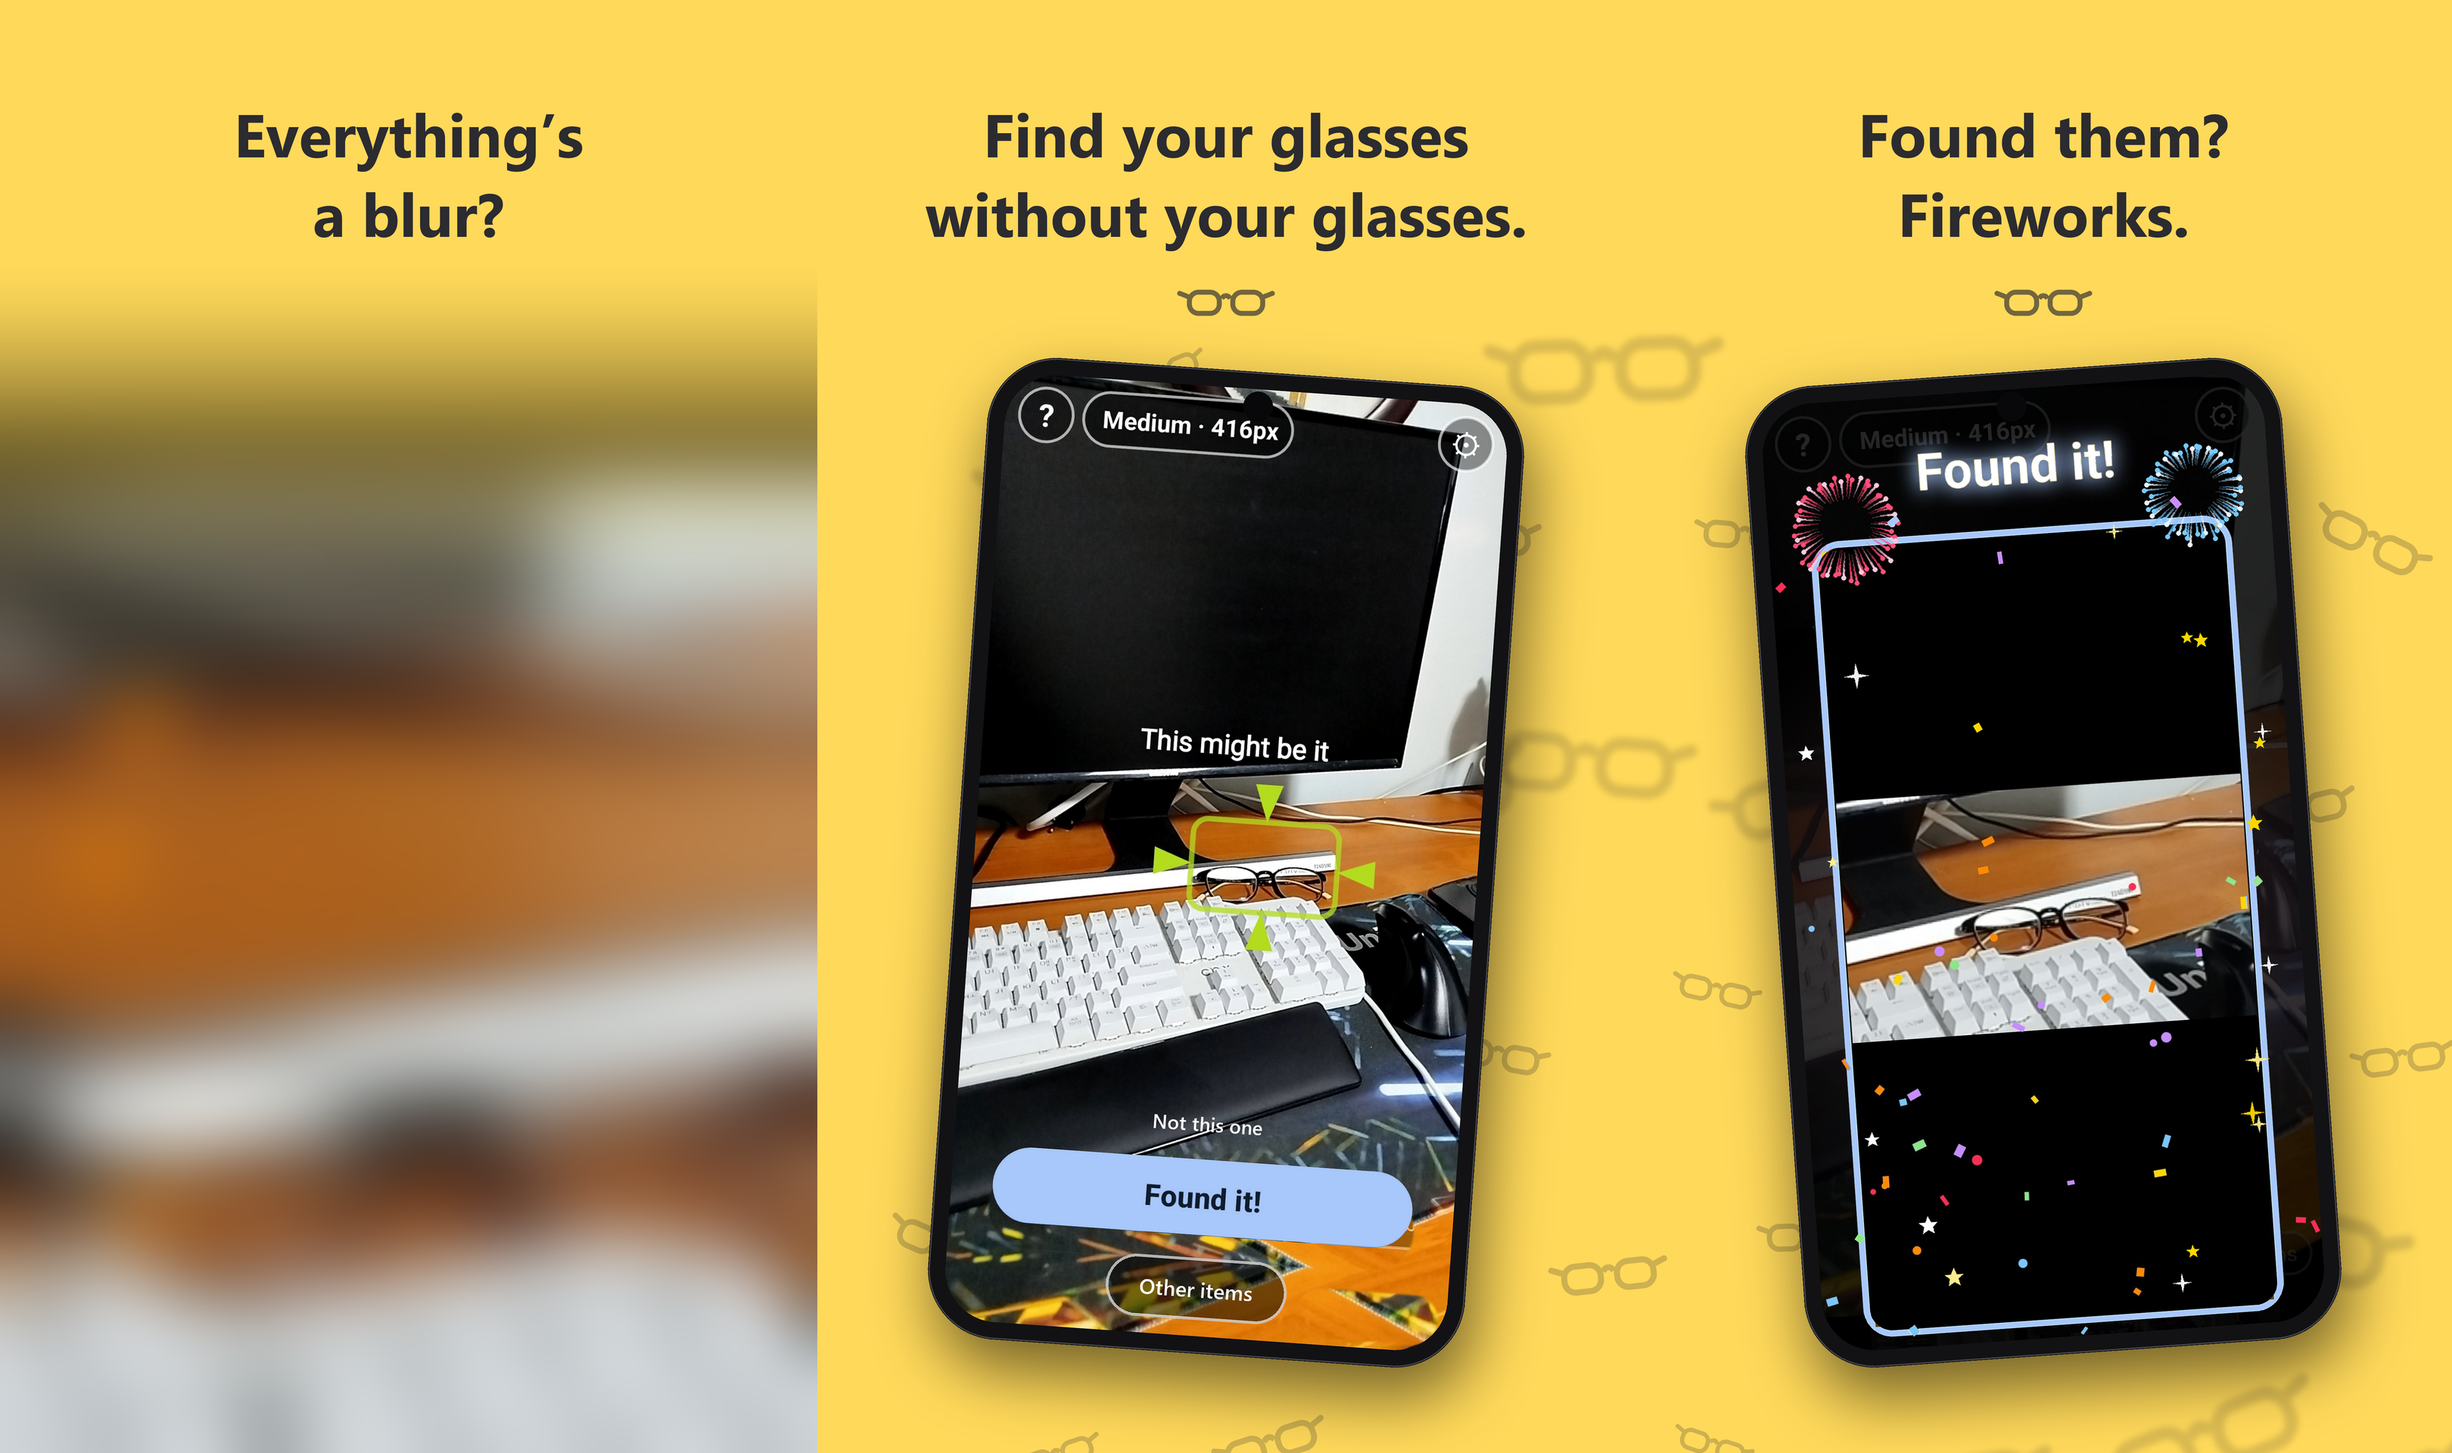
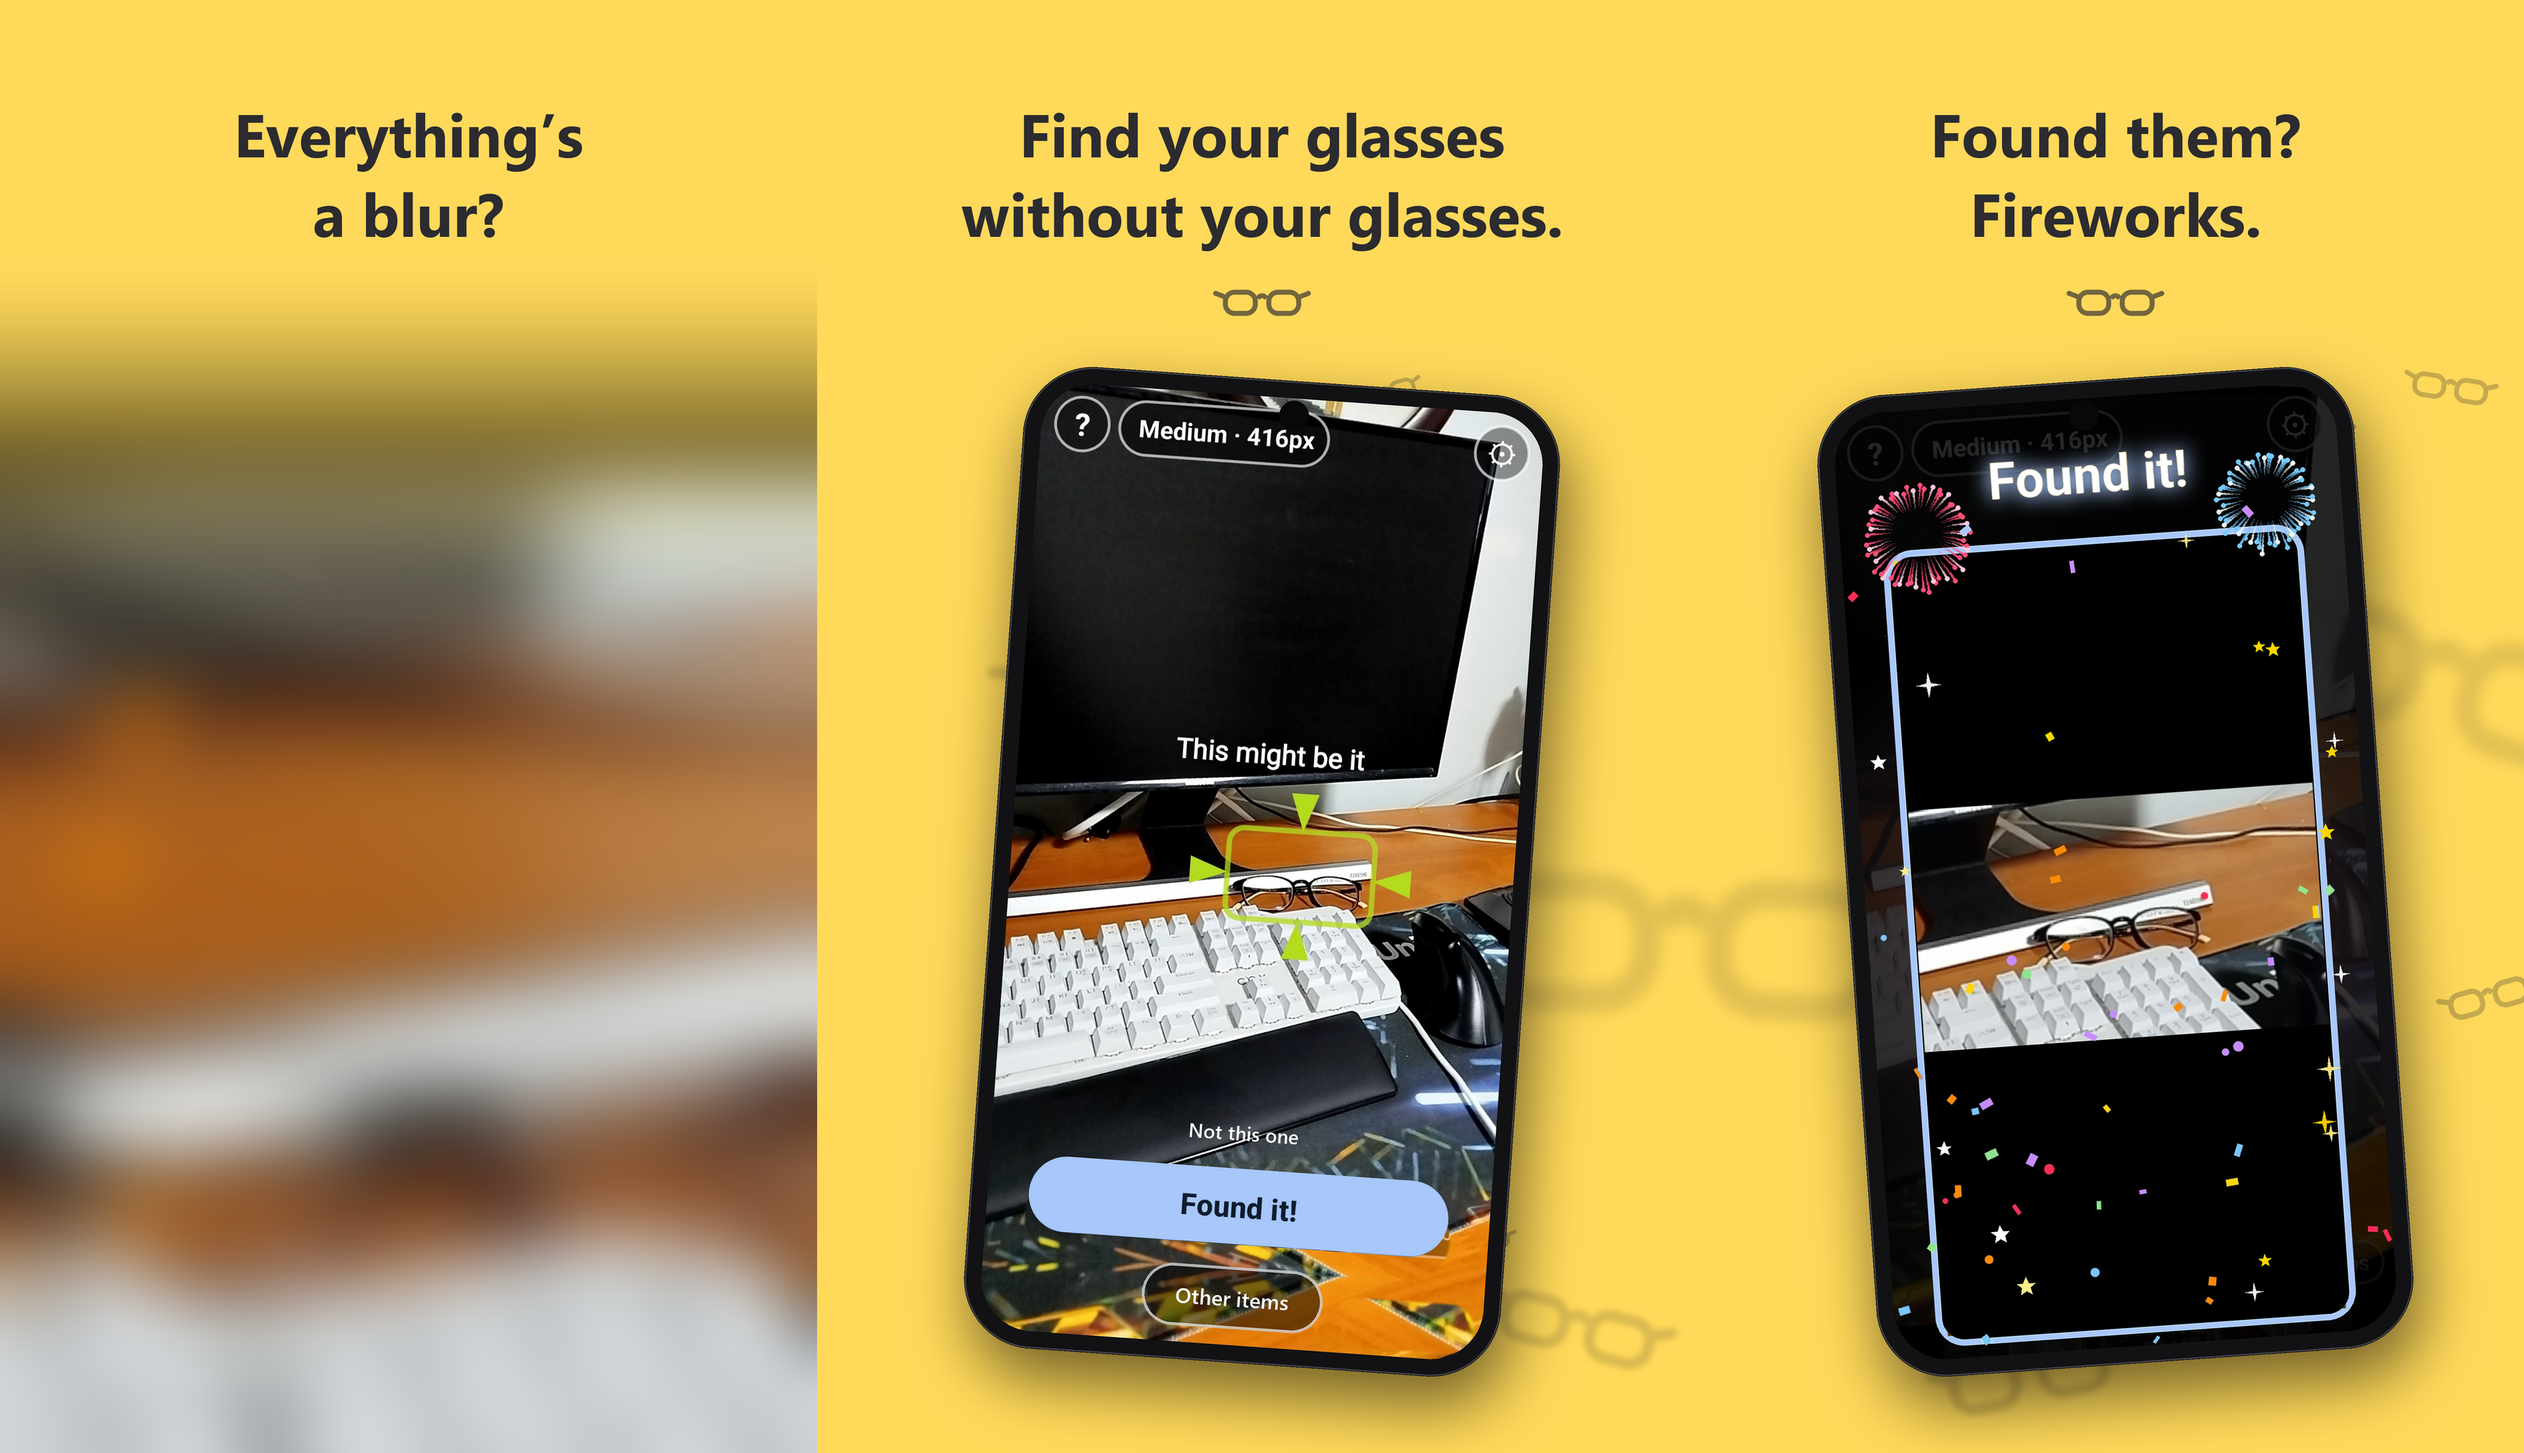
Store screenshots: fewer background glasses with a wider size range, 48px store gap built into the panorama, phones 12px lower

diff --git a/poc/scripts/render_store_yellow.py b/poc/scripts/render_store_yellow.py
@@ -28,9 +28,12 @@ TILES = [
 ]
 N = len(TILES)
 PHONE_H = 1300
-PHONE_Y = 1140
+PHONE_Y = 1152
 TEXT_Y = (175, 280)
 ORNAMENT_Y = 400
+# 스토어가 스크린샷 사이에 두는 간격 (1080 폭 기준). 정확한 값은 공개된 문서에서 못 찾았다.
+# 애플 가이드의 약 5% (1125 폭에 56px) 를 따라 48px 로 둔다. 이 간격에 걸린 그림은 버려진다.
+GAP = 48
 PHOTO_FADE = (330, 820)   # 1장: 이 높이 사이에서 노랑 → 사진으로 스르륵 바뀐다
 
 random.seed(8)
@@ -78,8 +81,13 @@ def blurry_room(w: int, h: int) -> Image.Image:
     return big.filter(ImageFilter.GaussianBlur(45 * SS))
 
 
+def tile_x(i: int) -> int:
+    """i 번째 장의 왼쪽 끝 (디자인 판 좌표, SS 배율 전). 장 사이에 스토어 간격만큼 빈 틈을 둔다."""
+    return i * (W + GAP)
+
+
 def main() -> None:
-    PW, PH = W * N * SS, H * SS
+    PW, PH = (W * N + GAP * (N - 1)) * SS, H * SS
     canvas = Image.new("RGBA", (PW, PH), YELLOW + (255,))
 
     # 1장: 흐린 사진을 깔고, 위쪽은 노랑에서 사진으로 부드럽게 넘어간다
@@ -94,55 +102,64 @@ def main() -> None:
     room.putalpha(fade)
     canvas.alpha_composite(room, (0, top))
 
-    # 폰은 따로 그려 두고, 폰 자리를 경계 안경이 피하게 한다
     phones = Image.new("RGBA", (PW, PH), (0, 0, 0, 0))
     for i, (name, _, ang) in enumerate(TILES):
         if name:
-            place(phones, phone(screen(name), PHONE_H * SS), (i * W + W // 2) * SS, PHONE_Y * SS, ang)
-    busy = phones.split()[3].point(lambda a: 255 if a > 20 else 0).filter(ImageFilter.MaxFilter(41))
+            place(phones, phone(screen(name), PHONE_H * SS), (tile_x(i) + W // 2) * SS, PHONE_Y * SS, ang)
 
-    # 2·3장 배경 안경 패턴 — 들쭉날쭉한 격자에 크고 작은 안경. 큰 것은 살짝 흐리게.
-    # 1장(흐린 방)으로는 넘어가지 않는다. 제목 자리는 비운다.
-    cell = 300 * SS
-    x_start = W * SS
+    # 2·3장 배경 안경 — 개수는 적게, 크기 차이는 크게 (아주 큰 것 / 중간 / 작은 것).
+    # 서로 너무 붙지 않게 놓는다. 1장으로는 넘어가지 않고, 제목 자리는 비운다.
+    # 2|3 사이 간격에 걸친 안경은 간격 부분이 버려져서, 스토어에서 나란히 보면 이어져 보인다.
+    x_lo = (tile_x(1) + 30) * SS
+    x_hi = PW
+    sizes = [("huge", 3), ("mid", 4), ("small", 7)]
     pattern = Image.new("RGBA", (PW, PH), (0, 0, 0, 0))
-    for row in range(PH // cell + 1):
-        for col in range((PW - x_start) // cell + 1):
-            big = random.random() < 0.35
-            gw = int((random.uniform(260, 360) if big else random.uniform(110, 170)) * SS)
-            ang = random.uniform(-30, 30)
-            spr = glasses_sprite(gw, INK + (45 if big else 60,)).rotate(ang, resample=Image.BICUBIC, expand=True)
-            if big:
-                spr = spr.filter(ImageFilter.GaussianBlur(4 * SS))
-            ox = (cell // 2) * (row % 2)                      # 줄마다 반 칸 어긋나게
-            cx = x_start + col * cell + ox + random.randint(-50, 50) * SS
-            cy = row * cell + cell // 2 + random.randint(-50, 50) * SS
-            x, y = cx - spr.width // 2, cy - spr.height // 2
-            if x < x_start + 20 * SS or cy < 470 * SS:        # 1장 쪽, 제목 자리
-                continue
-            pattern.alpha_composite(spr, (max(0, x), max(0, y)))
+    placed = []
+    for kind, count in sizes:
+        for _ in range(count):
+            for _try in range(300):
+                if kind == "huge":
+                    gw, alpha, blur = random.uniform(560, 760), 36, 9
+                elif kind == "mid":
+                    gw, alpha, blur = random.uniform(260, 360), 48, 4
+                else:
+                    gw, alpha, blur = random.uniform(90, 140), 70, 0
+                gw = int(gw * SS)
+                spr = glasses_sprite(gw, INK + (alpha,)).rotate(random.uniform(-30, 30),
+                                                                resample=Image.BICUBIC, expand=True)
+                if blur:
+                    spr = spr.filter(ImageFilter.GaussianBlur(blur * SS))
+                r = max(spr.width, spr.height) / 2
+                cx = random.uniform(x_lo + r * 0.6, x_hi - r * 0.3)
+                cy = random.uniform(470 * SS + r * 0.5, PH - r * 0.2)
+                if cx - spr.width / 2 < x_lo:
+                    continue
+                if any((cx - px) ** 2 + (cy - py) ** 2 < ((r + pr) * 0.75) ** 2 for px, py, pr in placed):
+                    continue
+                pattern.alpha_composite(spr, (int(cx - spr.width / 2), int(cy - spr.height / 2))
+                                        if cy - spr.height / 2 >= 0 else (int(cx - spr.width / 2), 0))
+                placed.append((cx, cy, r))
+                break
     canvas.alpha_composite(pattern)
-
     canvas.alpha_composite(phones)
 
     f = ImageFont.truetype(FB, 80 * SS)
     d = ImageDraw.Draw(canvas)
-    orn_ink = glasses_sprite(130 * SS, INK + (170,))
-    orn_white = glasses_sprite(130 * SS, (255, 255, 255, 220))
+    orn = glasses_sprite(130 * SS, INK + (170,))
     for i, (name, (l1, l2), _) in enumerate(TILES):
-        cx = (i * W + W // 2) * SS
-        col = INK
-        d.text((cx, TEXT_Y[0] * SS), l1, font=f, fill=col, anchor="mm")
-        d.text((cx, TEXT_Y[1] * SS), l2, font=f, fill=col, anchor="mm")
+        cx = (tile_x(i) + W // 2) * SS
+        d.text((cx, TEXT_Y[0] * SS), l1, font=f, fill=INK, anchor="mm")
+        d.text((cx, TEXT_Y[1] * SS), l2, font=f, fill=INK, anchor="mm")
         if name is not None:
-            canvas.alpha_composite(orn_ink, (cx - orn_ink.width // 2, ORNAMENT_Y * SS - orn_ink.height // 2))
+            canvas.alpha_composite(orn, (cx - orn.width // 2, ORNAMENT_Y * SS - orn.height // 2))
 
-    full = canvas.convert("RGB").resize((W * N, H), Image.LANCZOS)
+    full = canvas.convert("RGB").resize((PW // SS, H), Image.LANCZOS)
     full.save(REL / "store-yellow-spread.png")
     for i in range(N):
         p = REL / f"store-yellow-{i + 1}.png"
-        full.crop((i * W, 0, (i + 1) * W, H)).save(p)
+        full.crop((tile_x(i), 0, tile_x(i) + W, H)).save(p)
         print(p)
+    print("glasses:", len(placed))
 
 
 if __name__ == "__main__":
